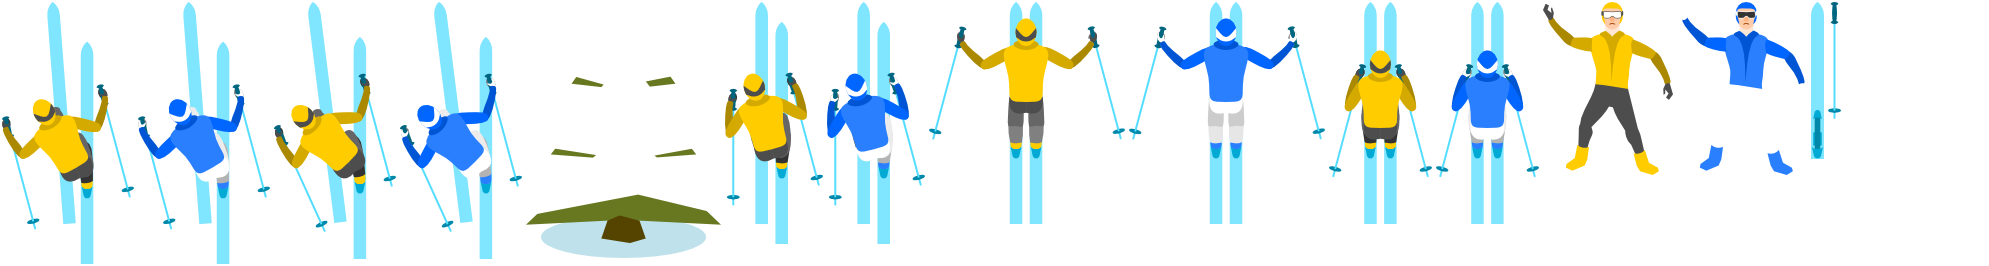
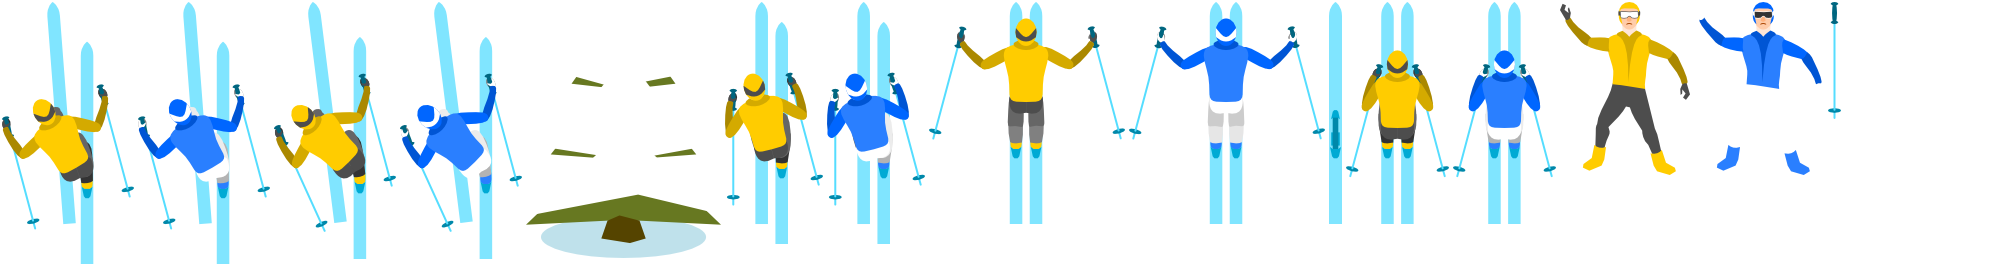
Finish animation

Changed region(s): [[0.6546, 0.0, 0.9351, 0.8421]]

diff --git a/index.html b/index.html
@@ -116,6 +116,11 @@ function drawFlakes( ctx, left, top, upsideDown )
 	}
 }
 
+function turnAround( angle )
+{
+	return (Math.PI-angle+Math.TAU) % Math.TAU;
+}
+
 function drawEquipment( equipment, ctx, left, top, upsideDown )
 {
 	for( var n = equipmentLength; n--; )
@@ -126,6 +131,17 @@ function drawEquipment( equipment, ctx, left, top, upsideDown )
 			vx = e.vx,
 			vy = e.vy;
 
+		if( Math.max( Math.abs( vx ), Math.abs( vy ) ) > .2 )
+			e.angle = (e.angle+.03*(vx*vy)+Math.TAU) % Math.TAU;
+
+		var angle = e.angle;
+
+		if( upsideDown )
+		{
+			angle = turnAround( angle );
+			y = height-y;
+		}
+
 		vx -= vx*maxSpeedFactor;
 		vy -= vy*maxSpeedFactor;
 
@@ -134,10 +150,7 @@ function drawEquipment( equipment, ctx, left, top, upsideDown )
 		e.vx = vx;
 		e.vy = vy;
 
-		if( Math.max( Math.abs( vx ), Math.abs( vy ) ) > .2 )
-			e.angle = (e.angle+.03*(vx*vy)+Math.TAU) % Math.TAU;
-
-		var sprite = e.sprite[indexFactor*e.angle | 0];
+		var sprite = e.sprite[indexFactor*angle | 0];
 
 		x -= sprite.centerX;
 		y -= sprite.centerY;
@@ -157,7 +170,7 @@ function drawPlayers( ctx, left, top, upsideDown )
 
 		if( upsideDown )
 		{
-			heading = (heading+Math.PI) % Math.TAU;
+			heading = turnAround( heading );
 			y = height-y;
 		}
 
@@ -236,6 +249,7 @@ function crash( player )
 	if( player.crashed )
 		return;
 
+	player.controllable = false;
 	player.crashed = true;
 	player.sprite = 7;
 
@@ -406,7 +420,7 @@ function draw()
 	{
 		var p = players[n],
 			ctx = p.ctx,
-			upsideDown = p.upsideDown,
+			ud = p.upsideDown,
 			x = p.x,
 			y = p.y,
 			left = x-centerX,
@@ -418,9 +432,9 @@ function draw()
 		ctx.fillRect( 0, 0, width, height );
 
 		//drawMarks( ctx, left, top );
-		drawObjects( ctx, left, top, upsideDown, p );
-		drawFlakes( ctx, left, top, upsideDown );
-		drawPlayers( ctx, left, top, upsideDown );
+		drawObjects( ctx, left, top, ud, p );
+		drawFlakes( ctx, left, top, ud );
+		drawPlayers( ctx, left, top, ud );
 	}
 }
 
@@ -434,7 +448,7 @@ function input()
 	var step = .05,
 		p;
 
-	if( !(p = players[0]).crashed )
+	if( (p = players[0]).controllable )
 	{
 		if( keysDown[65] )
 			turn( p, -step );
@@ -443,7 +457,7 @@ function input()
 	}
 
 	if( playersLength > 1 &&
-		!(p = players[1]).crashed )
+		(p = players[1]).controllable )
 	{
 		if( keysDown[37] )
 			turn( p, -step );
@@ -452,7 +466,7 @@ function input()
 	}
 
 	if( playersLength > 2 &&
-		!(p = players[2]).crashed )
+		(p = players[2]).controllable )
 	{
 		if( keysDown[72] )
 			turn( p, -step );
@@ -466,7 +480,7 @@ function input()
 			y = pointerY[n],
 			p = players[x/width | 0];
 
-		if( p.crashed )
+		if( !p.controllable )
 			continue;
 
 		turn( p, -step/centerX*(centerX-(x % width)) );
@@ -495,7 +509,7 @@ function roll( p )
 
 	if( speed < .1 )
 	{
-		p.finished = true;
+		p.stopped = true;
 		return;
 	}
 
@@ -542,7 +556,7 @@ function ski( p )
 		vd -= Math.TAU;
 
 	p.lean += (vd*leanFactor-p.lean)*.1*factor;
-	p.sprite = 3+Math.max( -3, Math.min( 3, Math.ceil( p.lean ) ) );
+	p.sprite = 3+Math.max( -3, Math.min( 3, Math.round( p.lean ) ) );
 
 	// difference from -PI to +PI
 	if( d > Math.PI )
@@ -632,17 +646,27 @@ function move()
 	{
 		var p = players[n];
 
-		if( p.finished ||
-			p.y < 0 )
-		{
-			p.finished = true;
+		if( p.stopped )
 			continue;
-		}
 
 		if( p.crashed )
 			roll( p );
 		else
+		{
+			if( p.y < 0 )
+			{
+				if( p.controllable )
+					p.controllable = false;
+
+				if( Math.abs( p.vx )+Math.abs( p.vy ) > .3 &&
+					p.skiAngle > Math.PI2 )
+					turn( p, .1 );
+				else
+					p.stopped = true;
+			}
+
 			ski( p );
+		}
 
 		++moving;
 	}
@@ -831,8 +855,9 @@ function reset()
 
 		p.x = x;
 		p.y = y;
+		p.controllable = true;
 		p.crashed = false;
-		p.finished = false;
+		p.stopped = false;
 
 		p.vx =
 		p.vy =
@@ -885,7 +910,7 @@ function scale( styleWidth )
 	var frames = {
 			skierBlueStraight: {
 				rotate: true,
-				frame: {/*skier-blue-straight*/x:1436,y:2,w:103,h:222}
+				frame: {/*skier-blue-straight*/x:1453,y:2,w:103,h:222}
 			},
 			skierBlueJump: {
 				rotate: true,
@@ -920,11 +945,11 @@ function scale( styleWidth )
 			},
 			skierBlueCrashed: {
 				rotate: true,
-				frame: {/*skier-blue-crashed*/x:1677,y:2,w:130,h:173}
+				frame: {/*skier-blue-crashed*/x:1694,y:2,w:130,h:173}
 			},
 			skierYellowStraight: {
 				rotate: true,
-				frame: {/*skier-yellow-straight*/x:1329,y:2,w:103,h:222}
+				frame: {/*skier-yellow-straight*/x:1346,y:2,w:103,h:222}
 			},
 			skierYellowJump: {
 				rotate: true,
@@ -959,7 +984,7 @@ function scale( styleWidth )
 			},
 			skierYellowCrashed: {
 				rotate: true,
-				frame: {/*skier-yellow-crashed*/x:1543,y:2,w:130,h:173}
+				frame: {/*skier-yellow-crashed*/x:1560,y:2,w:130,h:173}
 			},
 			pole: {
 				rotate: true,
@@ -967,7 +992,7 @@ function scale( styleWidth )
 			},
 			ski: {
 				rotate: true,
-				frame: {/*ski*/x:1811,y:2,w:13,h:157}
+				frame: {/*ski*/x:1329,y:2,w:13,h:222}
 			},
 			tree: {
 				frame: {/*tree*/x:526,y:2,w:195,h:256}
@@ -1126,7 +1151,7 @@ function resize()
 
 	centerX = width >> 1;
 	centerY = height >> 1;
-	maxSpeedFactor = 17.25/Math.min( w, h );
+	maxSpeedFactor = 30/h;
 
 	for( var n = playersLength; n--; )
 	{
